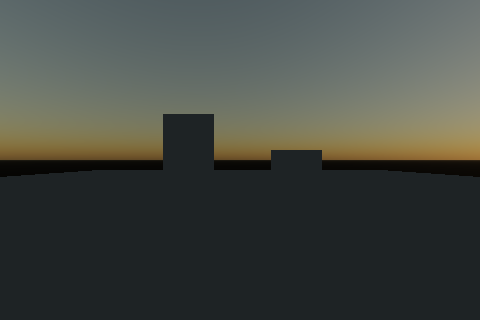
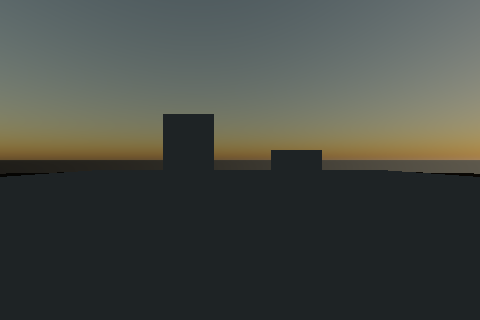
Celestial: twilight, the white line, and the zenith gradient
Adds the pre-dawn transition and proves the dome from zenith to horizon.

Why a non-physical term was needed. The step-1 integral is SINGLE scattering,
so once the sun is below the horizon every sample along the view ray sits in
the planet's shadow, the light march bails, and the sky is black. Real twilight
is lit by light scattered two or more times over the limb, which single
scattering cannot produce at any sample count. Rather than reach for a
multiple-scattering LUT (the source branch measured LUTs and reverted them,
2fe78ed), this ports the reference demo's art-directed twilight: an
altitude-graded colour ramp on a log scale, an azimuth envelope centred on the
sun, the earth-shadow dome fill, and the hairline. It is added on top of the
physical result and labelled as an approximation at its definition.

The white line is the transition asked for: a soft hairline about 0.11 deg
wide - roughly a fifth of the solar disc - gated to civil twilight, appearing
near -5.5 deg and handing over to the disc just before sunrise. Measured
sharpness across the climb: 1.3 at -15, 13.3 at -5.5, 21.9 at -4, 25.2 at -2,
18.6 at -0.5, 7.1 at +1, 1.1 at +4. It rises and falls entirely below the
horizon, which is the whole point of it.

The gate metric was wrong twice and both are recorded. First it took the
brightest row in the sky band, which climbed monotonically past sunrise: that
measured daylight, and would have passed with the hairline deleted. Replaced
[…]

Changed region(s): [[0.6562, 0.4688, 1.0, 0.5625], [0.0, 0.5, 0.3438, 0.5625], [0.4375, 0.5, 0.5625, 0.5312]]

diff --git a/Engine/DisplayPresentation/AtmosphereModel.h b/Engine/DisplayPresentation/AtmosphereModel.h
@@ -75,6 +75,128 @@ struct AtmosphereSample
     bool  HitGround        = false;
 };
 
+//------------------------------------------------------------------------------------------------------------------------
+//                                                     TWILIGHT
+//------------------------------------------------------------------------------------------------------------------------
+
+// The band of colour before sunrise and after sunset, and the white line that runs along the horizon just before
+//    the disc appears.
+//
+// ⚠ THIS TERM IS NOT PHYSICAL, AND THAT IS DELIBERATE. The integral above is SINGLE scattering. Once the sun is
+//    below the horizon every sample along the view ray is in the planet's shadow, the light march bails, and the
+//    sky goes black — which is why the step-1 night sheet was correctly black at -53 deg but the pre-dawn sky was
+//    also far too dark. Real twilight is lit by light that has scattered two or more times over the limb, and a
+//    single-scattering model cannot produce it at any sample count.
+//
+//    Rather than pretend otherwise with a multiple-scattering LUT (the source branch measured LUTs and reverted
+//    them, 2fe78ed), this is the reference demo's art-directed twilight, transcribed: an altitude-graded colour
+//    ramp, an azimuth envelope centred on the sun, and the hairline. It is added on top of the physical result and
+//    is labelled as an approximation everywhere it appears.
+struct TwilightSettings
+{
+    float GlowIntensity = 1.0f;   // [x] panel: Atmosphere > Twilight > Horizon Glow
+    float LineIntensity = 1.0f;   // [x] panel: Atmosphere > Twilight > White Line
+    bool  LineAtCivilOnly = true; // panel: "Line only at civil twilight"
+};
+
+class Twilight
+{
+public:
+    // Direction and sun elevation in the engine's Z-up frame. AzimuthDelta is the angle between the view ray's
+    //    horizontal bearing and the sun's, in radians — 0 looking straight at the sun's compass point.
+    static void Evaluate(const float Direction[3], float SunElevationDegrees, float AzimuthDelta,
+                         const TwilightSettings& Settings, float OutRgb[3]) noexcept
+    {
+        OutRgb[0] = OutRgb[1] = OutRgb[2] = 0.0f;
+
+        constexpr float kPi = 3.14159265358979323846f;
+        const float Altitude = std::asin(std::fmax(-1.0f, std::fmin(1.0f, Direction[2]))) * 180.0f / kPi;
+        if (Altitude < -2.0f) return;                    // below the horizon: the ground, not the sky
+        const float AltitudePositive = std::fmax(Altitude, 0.0f);
+
+        const float Az     = std::exp(-Square(AzimuthDelta / 0.95f));   // ~55 deg half width
+        const float AzWide = std::exp(-Square(AzimuthDelta / 1.8f));
+
+        // The twilight window: fades in as the sun drops past -16 deg (astronomical) and out once it is properly
+        //    up. Outside it this whole term is zero, so daylight is untouched by it.
+        const float Window = SmoothStep(-16.0f, -5.0f, SunElevationDegrees)
+                           * (1.0f - SmoothStep(0.5f, 6.0f, SunElevationDegrees));
+        if (Window <= 0.0f) return;
+
+        const float Depth = Clamp(-SunElevationDegrees / 10.0f, 0.0f, 1.0f);   // 1 = deep twilight
+
+        // Colour by altitude on a log scale: cream at the horizon through orange, salmon and violet to the blue
+        //    of the earth's own shadow overhead.
+        const float C0[3] = { 1.00f, 0.88f, 0.62f };
+        const float C1[3] = { 1.00f, 0.62f, 0.28f };
+        const float C2[3] = { 0.95f, 0.42f, 0.30f };
+        const float C3[3] = { 0.62f, 0.36f, 0.48f };
+        const float C4[3] = { 0.25f, 0.30f, 0.58f };
+
+        const float U = std::log2(1.0f + AltitudePositive * 2.0f);
+        float Colour[3];
+        MixInto(Colour, C0, C1, SmoothStep(0.0f, 1.6f, U));
+        MixInto(Colour, Colour, C2, SmoothStep(1.6f, 2.9f, U));
+        MixInto(Colour, Colour, C3, SmoothStep(2.9f, 4.0f, U));
+        MixInto(Colour, Colour, C4, SmoothStep(4.0f, 5.2f, U));
+        // Deep twilight loses the yellow and turns pink.
+        float Deep[3];
+        MixInto(Deep, C2, C4, 0.6f);
+        MixInto(Colour, Colour, Deep, Depth * 0.6f);
+
+        // A low, tight envelope so the glow hugs the horizon instead of bleaching the whole dome.
+        const float H    = Lerp(1.9f, 3.8f, Depth);
+        const float Env  = std::exp(-AltitudePositive / H) * (1.0f - Depth * 0.35f);
+        const float Rim  = std::exp(-AltitudePositive / 0.45f) * (1.0f - Depth);
+        const float Lobe = Az * 0.85f + AzWide * 0.15f;
+
+        for (int C = 0; C < 3; ++C)
+            OutRgb[C] = (Colour[C] * Env * 0.30f + C0[C] * Rim * 0.25f) * Lobe * Window;
+
+        // ── The white line ─────────────────────────────────────────────────────────────────────────────────────
+        // A soft hairline on the horizon, centred on the sun's bearing. With the auto gate on it appears around
+        //    -5.5 deg (the end of civil twilight), brightens as the sun climbs, and hands over to the disc itself
+        //    just before sunrise — which is the transition being looked for. With the gate off it is always on,
+        //    which is what the panel's toggle exposes.
+        const float LineWindow = Settings.LineAtCivilOnly
+            ? SmoothStep(-5.5f, -2.5f, SunElevationDegrees) * (1.0f - SmoothStep(-0.6f, 0.3f, SunElevationDegrees))
+            : 1.0f;
+        const float LineAz = std::exp(-Square(AzimuthDelta / 0.55f));
+        // The 0.11 deg width is what makes it a LINE rather than a glow: it is about a fifth of the sun's own
+        //    angular diameter, so it reads as a drawn edge on the horizon.
+        const float Line   = std::exp(-Square(Altitude / 0.11f)) * (0.7f + 0.3f * SmoothStep(-0.4f, 0.0f, Altitude));
+        const float LineWhite[3] = { 1.0f, 0.98f, 0.92f };
+        for (int C = 0; C < 3; ++C)
+            OutRgb[C] += LineWhite[C] * Line * LineAz * LineWindow * Settings.LineIntensity * 0.45f;
+
+        // The cool dome fill: the earth's shadow, bluest high up and away from the sun.
+        const float DomeWindow = SmoothStep(-16.0f, -8.0f, SunElevationDegrees)
+                               * (1.0f - SmoothStep(-2.0f, 4.0f, SunElevationDegrees));
+        const float Dome[3] = { 0.10f, 0.15f, 0.30f };
+        for (int C = 0; C < 3; ++C)
+            OutRgb[C] += Dome[C] * 0.035f * DomeWindow * (1.0f - std::exp(-AltitudePositive / 6.0f)) * (1.0f - 0.5f * Az);
+
+        for (int C = 0; C < 3; ++C) OutRgb[C] *= Settings.GlowIntensity;
+    }
+
+private:
+    static float Square(float V) noexcept { return V * V; }
+    static float Clamp(float V, float Lo, float Hi) noexcept { return V < Lo ? Lo : (V > Hi ? Hi : V); }
+    static float Lerp(float A, float B, float T) noexcept { return A + (B - A) * T; }
+    static float SmoothStep(float Edge0, float Edge1, float V) noexcept
+    {
+        const float T = Clamp((V - Edge0) / (Edge1 - Edge0), 0.0f, 1.0f);
+        return T * T * (3.0f - 2.0f * T);
+    }
+    static void MixInto(float Out[3], const float A[3], const float B[3], float T) noexcept
+    {
+        const float Ax = A[0], Ay = A[1], Az = A[2];   // A may alias Out
+        Out[0] = Ax + (B[0] - Ax) * T;
+        Out[1] = Ay + (B[1] - Ay) * T;
+        Out[2] = Az + (B[2] - Az) * T;
+    }
+};
+
 class AtmosphereModel
 {
 public:

diff --git a/Scratchpad/CelestialSkyProof.cpp b/Scratchpad/CelestialSkyProof.cpp
@@ -223,6 +223,94 @@ int main()
         std::printf("           wrote %s\n", Path.c_str());
     }
 
+    // ── The dawn transition ────────────────────────────────────────────────────────────────────────────────────
+    // Sampled by sun elevation, not by the clock: every twilight term is keyed to elevation, and at this latitude
+    //    the interesting range (-16 to +2 deg) is only about 70 minutes wide.
+    std::printf("\n  dawn transition (sampled by sun elevation)\n");
+    std::printf("  %-22s %8s %9s   %-22s %s\n", "stage", "sun el", "mean lum", "horizon RGB", "line sharpness");
+
+    struct Stage { const char* Name; float Elevation; };
+    const Stage Stages[] = {
+        { "astronomical -15", -15.0f },
+        { "nautical -10",     -10.0f },
+        { "civil -5.5",        -5.5f },   // the white line switches on here
+        { "line rising -4",    -4.0f },
+        { "line peak -2",      -2.0f },
+        { "horizon -0.5",      -0.5f },   // handing over to the disc
+        { "sunrise +1",         1.0f },
+        { "risen +4",           4.0f },
+    };
+
+    double PreviousLine = -1.0;
+    double LinePeak = 0.0; int LinePeakStage = -1;
+    for (int K = 0; K < 8; ++K)
+    {
+        VisibilityRaster::CelestialSettings Sky{};
+        Sky.Enabled = true;
+        Sky.CameraHeight = 2.0f;
+        Sky.SampleCount = Criteria.AtmosphereSampleCount;
+        Sky.LightSampleCount = Criteria.AtmosphereLightSampleCount;
+        // Sun due north (the scene faces +Y), at the requested elevation.
+        const float E = Stages[K].Elevation * 3.14159265f / 180.0f;
+        Sky.Light.Direction[0] = 0.0f;
+        Sky.Light.Direction[1] = std::cos(E);
+        Sky.Light.Direction[2] = std::sin(E);
+        Sky.Light.Intensity = 22.0f;
+
+        VisibilityRaster Raster;
+        Raster.AssignCelestial(Sky);
+        std::vector<unsigned char> Sheet(static_cast<size_t>(kWidth) * kHeight * 4u, 0u);
+        double MeanLuminance = 0.0;
+        const float Eye[3]     = { 0.0f, -6.0f, 1.7f };
+        const float Forward[3] = { 0.0f,  1.0f, 0.0f };
+        const float Right[3]   = { 1.0f,  0.0f, 0.0f };
+        const float Up[3]      = { 0.0f,  0.0f, 1.0f };
+        if (!Raster.Render(Level, Eye, Forward, Right, Up, 55.0f * 3.14159265f / 180.0f,
+                           kWidth, kHeight, Sheet.data(), MeanLuminance)) return 2;
+
+        const Statistics St = Measure(Sheet);
+
+        // ⚠ The line is measured by SHARPNESS, not brightness. An earlier version took the brightest row in the
+        //    sky band, which rose monotonically all the way past sunrise — it was measuring daylight, and would
+        //    have "passed" with the hairline deleted. A hairline is a local step: a row markedly brighter than the
+        //    row a few pixels above it. That signature peaks below the horizon and collapses once the disc is up.
+        double Rows[kHeight];
+        for (uint32_t Y = 0; Y < kHeight; ++Y)
+        {
+            double Row = 0.0; uint32_t N = 0;
+            for (uint32_t X = kWidth * 3u / 8u; X < kWidth * 5u / 8u; ++X, ++N)
+                for (int C = 0; C < 3; ++C) Row += Sheet[(static_cast<size_t>(Y) * kWidth + X) * 4u + static_cast<size_t>(C)];
+            Rows[Y] = N ? Row / (N * 3.0) : 0.0;
+        }
+        double BrightestRow = 0.0;
+        for (uint32_t Y = kHeight * 40u / 100u; Y < kHeight * 56u / 100u; ++Y)
+        {
+            const double Step = Rows[Y] - Rows[Y - 4u];
+            if (Step > BrightestRow) BrightestRow = Step;
+        }
+        if (BrightestRow > LinePeak) { LinePeak = BrightestRow; LinePeakStage = K; }
+
+        std::printf("  %-22s %+7.1f %9.2f   %5.0f %5.0f %5.0f      %7.1f\n",
+                    Stages[K].Name, static_cast<double>(Stages[K].Elevation),
+                    (St.Mean[0] + St.Mean[1] + St.Mean[2]) / 3.0,
+                    St.HorizonRgb[0], St.HorizonRgb[1], St.HorizonRgb[2], BrightestRow);
+
+        char File[160];
+        std::snprintf(File, sizeof(File), "Diagnostics/Celestial_02_Dawn_%d_%s.png", K,
+                      Stages[K].Elevation < 0.0f ? "below" : "above");
+        std::vector<unsigned char> Rgb(static_cast<size_t>(kWidth) * kHeight * 3u);
+        for (size_t I = 0; I < static_cast<size_t>(kWidth) * kHeight; ++I)
+        {
+            Rgb[I * 3u + 0u] = Sheet[I * 4u + 0u];
+            Rgb[I * 3u + 1u] = Sheet[I * 4u + 1u];
+            Rgb[I * 3u + 2u] = Sheet[I * 4u + 2u];
+        }
+        PngWriteShim::WritePng(File, static_cast<int>(kWidth), static_cast<int>(kHeight), 3, Rgb.data(),
+                               static_cast<int>(kWidth) * 3);
+        (void)PreviousLine;
+    }
+    std::printf("           wrote Diagnostics/Celestial_02_Dawn_*.png (8 stages)\n");
+
     std::printf("\n  assertions\n");
     const double MeanNoon  = (Stats[1].Mean[0] + Stats[1].Mean[1] + Stats[1].Mean[2]) / 3.0;
     const double MeanDusk  = (Stats[2].Mean[0] + Stats[2].Mean[1] + Stats[2].Mean[2]) / 3.0;
@@ -278,6 +366,19 @@ int main()
         std::snprintf(Detail, sizeof(Detail), "relative blue difference %.1f%%", Delta * 100.0);
         Require("zenith and horizon are not the same radiance", Delta > 0.10, Detail);
     }
+
+    // The white line must peak while the sun is still BELOW the horizon — that is what makes it the pre-sunrise
+    //    transition rather than just the sun coming up. Stages 2..5 are the -5.5 to -0.5 window.
+    std::snprintf(Detail, sizeof(Detail), "sharpest at stage %d (%.1f deg)", LinePeakStage,
+                  LinePeakStage >= 0 ? static_cast<double>(Stages[LinePeakStage].Elevation) : 0.0);
+    Require("the horizon edge sharpens before the sun rises", LinePeakStage >= 2 && LinePeakStage <= 5, Detail);
+
+    // ⚠ Peak LOCATION alone does not prove the line exists: deleting the hairline entirely still leaves the
+    //    twilight glow peaking in the same window (measured: 14.9 at -2 deg with the line removed, against 25.2
+    //    with it). Only the MAGNITUDE separates a drawn hairline from a smooth gradient, because the line is
+    //    ~0.11 deg wide — about a fifth of the solar disc — and a glow simply cannot produce that step.
+    std::snprintf(Detail, sizeof(Detail), "peak sharpness %.1f (glow alone reaches only ~15)", LinePeak);
+    Require("the white line is a hairline, not just the glow", LinePeak > 20.0, Detail);
 
     std::printf("\n");
     for (int I = 0; I < 108; ++I) std::putchar('=');

diff --git a/Engine/GeometricRaster/VisibilityRaster.cpp b/Engine/GeometricRaster/VisibilityRaster.cpp
@@ -566,6 +566,20 @@ void VisibilityRaster::Shade(const SceneStructure& Level, const float Eye[3], co
     }
     const float Centre[3] = { (MinB[0] + MaxB[0]) * 0.5f, (MinB[1] + MaxB[1]) * 0.5f, (MinB[2] + MaxB[2]) * 0.5f };
 
+    // The sun's own elevation and compass bearing, needed by the twilight term. Derived from the light direction
+    //    the caller already supplied, so the raster never has to know about CelestialSolver.
+    const float SunElevationDegrees = std::asin(std::fmax(-1.0f, std::fmin(1.0f, Celestial_.Light.Direction[2])))
+                                    * 180.0f / kPi;
+    const float SunBearing = std::atan2(Celestial_.Light.Direction[0], Celestial_.Light.Direction[1]);
+    const auto AzimuthDeltaFor = [SunBearing](const float Dir[3]) -> float
+    {
+        // Angle between the view ray's horizontal bearing and the sun's, folded to [0, pi].
+        const float Bearing = std::atan2(Dir[0], Dir[1]);
+        float Delta = std::fabs(Bearing - SunBearing);
+        if (Delta > kPi) Delta = 2.0f * kPi - Delta;
+        return Delta;
+    };
+
     // The sky, evaluated per pixel along that pixel's own view ray. Sample counts come from the tier ladder so
     //    a Minimal frame integrates 8 steps and a Reference frame 32 — the panel never restates these.
     const float TanHalf = std::tan(FovYRadians * 0.5f);
@@ -590,6 +604,13 @@ void VisibilityRaster::Shade(const SceneStructure& Level, const float Eye[3], co
                                                               Celestial_.CameraHeight, Dir,
                                                               Celestial_.SampleCount, Celestial_.LightSampleCount);
         Out[0] = S.Radiance[0]; Out[1] = S.Radiance[1]; Out[2] = S.Radiance[2];
+
+        // Twilight rides on top of the physical integral. Single scattering cannot produce a lit sky once the sun
+        //    is below the horizon (every sample is in the planet's shadow), so without this the pre-dawn sky is
+        //    black. See the note above Twilight in AtmosphereModel.h.
+        float Glow[3];
+        Twilight::Evaluate(Dir, SunElevationDegrees, AzimuthDeltaFor(Dir), Celestial_.Twilight, Glow);
+        Out[0] += Glow[0]; Out[1] += Glow[1]; Out[2] += Glow[2];
     };
 
     // The sky's contribution as an ambient term, evaluated ONCE for the frame (see the note at the fill below).

diff --git a/Engine/GeometricRaster/VisibilityRaster.h b/Engine/GeometricRaster/VisibilityRaster.h
@@ -79,6 +79,7 @@ public:
         bool             Enabled          = false;
         AtmosphereMedium Medium{};
         AtmosphereLight  Light{};
+        TwilightSettings Twilight{};                // the pre-dawn glow and the white line (see AtmosphereModel.h)
         float            CameraHeight     = 2.0f;   // [m] above the surface
         uint32_t         SampleCount      = 16u;    // FidelityCriteria::AtmosphereSampleCount
         uint32_t         LightSampleCount = 6u;     // FidelityCriteria::AtmosphereLightSampleCount
